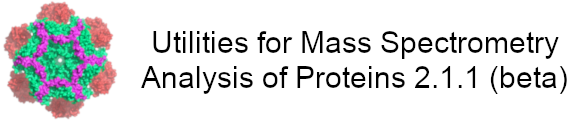
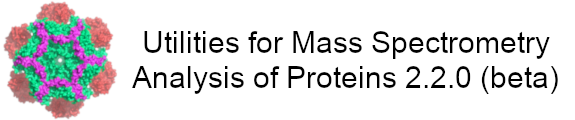
Help Menu 3

diff --git a/CODE/gui/window.py b/CODE/gui/window.py
@@ -16,8 +16,9 @@
 
 #region -------------------------------------------------------------> Imports
 import _thread
-import shutil
 import os
+import shutil
+import webbrowser
 from itertools import zip_longest
 from pathlib import Path
 from typing import Optional, Literal, Union
@@ -42,6 +43,7 @@ import wx.richtext
 import wx.adv as adv
 import wx.lib.agw.aui as aui
 import wx.lib.agw.customtreectrl as wxCT
+import wx.lib.agw.hyperlink as hl
 
 import dat4s_core.data.check as dtsCheck
 import dat4s_core.data.file as dtsFF
@@ -174,9 +176,9 @@ class BaseWindow(wx.Frame):
             'AllZoom'         : self.OnPlotZoomResetAll,
             #------------------------------> 
             'HelpAbout'      : self.OnAbout,
-            # 'HelpManual'     : ,
-            # 'HelpTutorial'   : ,
-            # 'HelpCheckUpd'   : ,
+            'HelpManual'     : self.OnManual,
+            'HelpTutorial'   : self.OnTutorial,
+            'HelpCheckUpd'   : self.OnCheckUpdate,
             # 'HelpPreferences': ,
         }
         #------------------------------> 
@@ -222,7 +224,69 @@ class BaseWindow(wx.Frame):
             -----
             
         """
-        print('About UMSAP')
+        About()
+        return True
+    #---
+    
+    def OnManual(self) -> bool:
+        """
+    
+            Parameters
+            ----------
+            
+    
+            Returns
+            -------
+            
+    
+            Raise
+            -----
+            
+        """
+        try:
+            os.system(f'{config.commOpen} {config.fManual}')
+            return True
+        except Exception as e:
+            msg = 'It was not possible to open the UMSAP manual.'
+            dtscore.Notification('errorF', msg=msg, tException=e)
+            return False
+    #---
+    
+    def OnTutorial(self) -> bool:
+        """
+    
+            Parameters
+            ----------
+            
+    
+            Returns
+            -------
+            
+    
+            Raise
+            -----
+            
+        """
+        webbrowser.open_new(config.urlTutorial)
+        return True
+    #---
+    
+    def OnCheckUpdate(self) -> bool:
+        """
+    
+            Parameters
+            ----------
+            
+    
+            Returns
+            -------
+            
+    
+            Raise
+            -----
+            
+        """
+        _thread.start_new_thread(UpdateCheck, ('menu',))
         return True
     #---
     
@@ -1627,6 +1691,103 @@ class BaseWindowProteolysis(BaseWindow):
 
 
 #region -------------------------------------------------------------> Classes
+class About(BaseWindow):
+    """
+
+        Parameters
+        ----------
+        
+
+        Attributes
+        ----------
+        
+
+        Raises
+        ------
+        
+
+        Methods
+        -------
+        
+    """
+    #region -----------------------------------------------------> Class setup
+    cName = config.nwAbout
+    #------------------------------> 
+    cSWindow = (600, 775)
+    #------------------------------> 
+    cTitle = cName
+    #endregion --------------------------------------------------> Class setup
+
+    #region --------------------------------------------------> Instance setup
+    def __init__(self):
+        """ """
+        #region -----------------------------------------------> Initial Setup
+        super().__init__()
+        #endregion --------------------------------------------> Initial Setup
+
+        #region -----------------------------------------------------> Widgets
+        self.SetBackgroundColour('white')
+        #------------------------------> 
+        self.wImg = wx.StaticBitmap(self, wx.ID_ANY, 
+            wx.Bitmap(str(config.fImgAbout), wx.BITMAP_TYPE_PNG))
+        self.wCopyRight = wx.StaticText(
+            self, label='Copyright © 2017 Kenny Bravo Rodriguez')
+        #------------------------------> 
+        self.wText = wx.TextCtrl(
+            self, 
+            size  = (100, 500),
+            style = wx.TE_MULTILINE|wx.TE_WORDWRAP|wx.TE_READONLY
+        )
+        self.wText.AppendText(myText)
+        self.wText.SetInsertionPoint(0)
+        #------------------------------> 
+        self.wLink = hl.HyperLinkCtrl(
+            self, 
+            -1, 
+            config.urlHome, 
+            URL=config.urlHome,
+        )
+        #------------------------------> 
+        self.wBtn = wx.Button(self, id=wx.ID_OK, label='OK')
+        self.wBtn.SetFocus()
+        #endregion --------------------------------------------------> Widgets
+
+        #region ------------------------------------------------------> Sizers
+        self.sBtn = wx.BoxSizer(orient=wx.HORIZONTAL)
+        self.sBtn.Add(self.wLink, 0, wx.ALIGN_CENTER_VERTICAL|wx.ALL, 5)
+        self.sBtn.AddStretchSpacer()
+        self.sBtn.Add(self.wBtn, 0, wx.ALIGN_CENTER_VERTICAL|wx.ALL, 5)
+        #------------------------------> 
+        self.sSizer.Add(self.wImg,       0, wx.ALIGN_CENTER|wx.ALL, 5)
+        self.sSizer.Add(self.wCopyRight, 0, wx.ALIGN_CENTER|wx.ALL, 5)
+        self.sSizer.Add(self.wText,      1, wx.EXPAND|wx.ALL, 5)
+        self.sSizer.Add(self.sBtn,       0, wx.EXPAND|wx.ALL, 5)
+        #endregion ---------------------------------------------------> Sizers
+
+        #region --------------------------------------------------------> Bind
+        self.Bind(wx.EVT_BUTTON, self.OnButtonClose, source=self.wBtn)
+        #endregion -----------------------------------------------------> Bind
+
+        #region ---------------------------------------------> Window position
+        self.Center()
+        self.Show()
+        #endregion ------------------------------------------> Window position
+    #---
+    #endregion -----------------------------------------------> Instance setup
+
+    #region ---------------------------------------------------> Class methods
+    def OnButtonClose(self, event) -> bool:
+        """ To close the window 
+        
+        
+        """
+        self.Close()
+        return True
+    #---
+    #endregion ------------------------------------------------> Class methods
+#---
+
+
 class MainWindow(BaseWindow):
     """Creates the main window of the App.
     
@@ -12037,12 +12198,69 @@ class FA2Btn(dtsWindow.OkCancel):
 #endregion --------------------------------------------------------> wx.Dialog
 
 
+#region ----------------------------------------------------------> ABOUT TEXT
+myText = """UMSAP: Fast post-processing of mass spectrometry data 
 
+-- Modules and Python version --
 
+UMSAP 2.1.1 (beta) is written in Python 3.7.1 and uses the following modules:
 
+Biopython 1.73  
+pyFPDF 1.7.2 
+Python 3.7.1
+Matplotlib 3.0.2 
+NumPy 1.16.1
+Pandas 0.24.2   
+PyInstaller 3.4 
+Requests 2.21.0 
+Scipy 1.2.0 
+Statsmodels 0.9.0
+wxPython 4.0.4
 
+Copyright notice and License for the modules can be found in the User's manual of UMSAP.
 
+-- Acknowledgments --
 
+I would like to thank all the persons that have contributed to the development 
+of UMSAP, either by contributing ideas and suggestions or by testing the code. 
+Special thanks go to: Dr. Farnusch Kaschani, Dr. Juliana Rey, Dr. Petra Janning 
+and Prof. Dr. Daniel Hoffmann.
 
+In particular, I would like to thank Prof. Dr. Michael Ehrmann for the support and 
+useful discussions during my postdoc stay in his group at the University of Duisburg-Essen.
 
+-- License Agreement --
+
+Utilities for Mass Spectrometry Analysis of Proteins and its source code are governed by the following license:
+
+Upon execution of this Agreement by the party identified below (”Licensee”), Kenny Bravo Rodriguez (KBR) will provide the Utilities for Mass Spectrometry Analysis of Proteins software in Executable Code and/or Source Code form (”Software”) to Licensee, subject to the following terms and conditions. For purposes of this Agreement, Executable Code is the compiled code, which is ready to run on Licensee’s computer. Source code consists of a set of files, which contain the actual program commands that are compiled to form the Executable Code.
+
+1. The Software is intellectual property owned by KBR, and all rights, title and interest, including copyright, remain with KBR. KBR grants, and Licensee hereby accepts, a restricted, non-exclusive, non-transferable license to use the Software for academic, research and internal business purposes only, e.g. not for commercial use (see Clause 7 below), without a fee.
+
+2. Licensee may, at its own expense, create and freely distribute complimentary works that inter-operate with the Software, directing others to the Utilities for Mass Spectrometry Analysis of Proteins web page to license and obtain the Software itself. Licensee may, at its own expense, modify the Software to make derivative works. Except as explicitly provided below, this License shall apply to any derivative work as it does to the original Software distributed by KBR. Any derivative work should be clearly marked and renamed to notify users that it is a modified version and not the original Software distributed by KBR. Licensee agrees to reproduce the copyright notice and other proprietary markings on any derivative work and to include in the documentation of such work the acknowledgment: ”This software includes code developed by Kenny Bravo Rodriguez for the Utilities for Mass Spectrometry Analysis of Proteins software”.
+Licensee may not sell any derivative work based on the Software under any circumstance. For commercial distribution of the Software or any derivative work based on the Software a separate license is required. Licensee may contact KBR to negotiate an appropriate license for such distribution.
+
+3. Except as expressly set forth in this Agreement, THIS SOFTWARE IS PROVIDED ”AS IS” AND KBR MAKES NO REPRESENTATIONS AND EXTENDS NO WAR- RANTIES OF ANY KIND, EITHER EXPRESS OR IMPLIED, INCLUDING BUT NOT LIMITED TO WARRANTIES OR MERCHANTABILITY OR FITNESS FOR A PARTICULAR PURPOSE, OR THAT THE USE OF THE SOFTWARE WILL NOT INFRINGE ANY PATENT, TRADEMARK, OR OTHER RIGHTS. LICENSEE AS- SUMES THE ENTIRE RISK AS TO THE RESULTS AND PERFORMANCE OF THE SOFTWARE AND/OR ASSOCIATED MATERIALS. LICENSEE AGREES THAT KBR SHALL NOT BE HELD LIABLE FOR ANY DIRECT, INDIRECT, CONSE- QUENTIAL, OR INCIDENTAL DAMAGES WITH RESPECT TO ANY CLAIM BY LICENSEE OR ANY THIRD PARTY ON ACCOUNT OF OR ARISING FROM THIS AGREEMENT OR USE OF THE SOFTWARE AND/OR ASSOCIATED MATERIALS.
+
+4. Licensee understands the Software is proprietary to KBR. Licensee agrees to take all reasonable steps to insure that the Software is protected and secured from unauthorized disclosure, use, or release and will treat it with at least the same level of care as Licensee would use to protect and secure its own proprietary computer programs and/or information, but using no less than a reasonable standard of care. Licensee agrees to provide the Software only to any other person or entity who has registered with KBR. If Licensee is not registering as an individual but as an institution or corporation each member of the institution or corporation who has access to or uses Software must agree to and abide by the terms of this license. If Licensee becomes aware of any unauthorized licensing, copying or use of the Software, Licensee shall promptly notify KBR in writing. Licensee expressly agrees to use the Software only in the manner and for the specific uses authorized in this Agreement.
+
+5. KBR shall have the right to terminate this license immediately by written notice upon Licensee’s breach of, or non-compliance with, any terms of the license. Licensee may be held legally responsible for any copyright infringement that is caused or encouraged by its failure to abide by the terms of this license. Upon termination, Licensee agrees to destroy all copies of the Software in its possession and to verify such destruction in writing.
+
+6. Licensee agrees that any reports or published results obtained with the Software will acknowledge its use by the appropriate citation as follows:
+”Utilities for Mass Spectrometry Analysis of Proteins was created by Kenny Bravo Rodriguez at the University of Duisburg-Essen and is currently developed at the Max Planck Institute of Molecular Physiology.”
+Any published work, which utilizes Utilities for Mass Spectrometry Analysis of Proteins, shall include the following reference:
+Kenny Bravo-Rodriguez, Birte Hagemeier, Lea Drescher, Marian Lorenz, Michael Meltzer, Farnusch Kaschani, Markus Kaiser and Michael Ehrmann. (2018). Utilities for Mass Spectrometry Analysis of Proteins (UMSAP): Fast post-processing of mass spectrometry data. Rapid Communications in Mass Spectrometry, 32(19), 1659–1667.
+Electronic documents will include a direct link to the official Utilities for Mass Spec- trometry Analysis of Proteins page at: www.umsap.nl
+
+7. Commercial use of the Software, or derivative works based thereon, REQUIRES A COMMERCIAL LICENSE. Should Licensee wish to make commercial use of the Software, Licensee will contact KBR to negotiate an appropriate license for such use. Commercial use includes: (1) integration of all or part of the Software into a product for sale, lease or license by or on behalf of Licensee to third parties, or (2) distribution of the Software to third parties that need it to commercialize product sold or licensed by or on behalf of Licensee.
+
+8. Utilities for Mass Spectrometry Analysis of Proteins is being distributed as a research tool and as such, KBR encourages contributions from users of the code that might, at KBR’s sole discretion, be used or incorporated to make the basic operating framework of the Software a more stable, flexible, and/or useful product. Licensees who contribute their code to become an internal portion of the Software agree that such code may be distributed by KBR under the terms of this License and may be required to sign an ”Agreement Regarding Contributory Code for Utilities for Mass Spectrometry Analysis of Proteins Software” before KBR can accept it (contact umsap@umsap.nl for a copy).
+
+UNDERSTOOD AND AGREED.
+
+Contact Information:
+
+The best contact path for licensing issues is by e-mail to umsap@umsap.nl
+"""
+#endregion -------------------------------------------------------> ABOUT TEXT
 

diff --git a/CODE/config/config.py b/CODE/config/config.py
@@ -55,6 +55,8 @@ if os == 'Darwin':
     copyShortCut = 'Cmd'
     #------------------------------> Delta space between consecutive windows
     deltaWin = 23
+    #------------------------------> 
+    commOpen = 'open'
 elif os == 'Windows':
     #------------------------------> Root & Resources Folder
     if development:
@@ -76,6 +78,8 @@ elif os == 'Windows':
     copyShortCut = 'Ctrl'
     #------------------------------> Delta space between consecutive windows
     deltaWin = 20
+    #------------------------------> 
+    commOpen = 'start'
 else:
     #------------------------------> Root & Resources Folder
     root = cwd.parent
@@ -93,6 +97,8 @@ else:
     copyShortCut = 'Ctrl'
     #------------------------------> Delta space between consecutive windows
     deltaWin = 20
+    #------------------------------> 
+    commOpen = 'xdg-open'
 #endregion ------------------------------------- Platform Dependent Parameters
 
 
@@ -123,6 +129,7 @@ nwAAPlot        = 'AAPlot'
 nwHistPlot      = 'HistPlot'
 nwCpRPlot       = 'CpRPlot'
 nwCEvolPlot     = 'CEvolPlot'
+nwAbout         = 'About UMSAP'
 #------------------------------> Dialogs
 ndCheckUpdateResDialog = 'CheckUpdateResDialog'
 ndResControlExp        = 'ResControlExp'
@@ -214,8 +221,11 @@ esUMSAP = ['.umsap']
 pImages = res / 'IMAGES' # Images folder
 #------------------------------> Location & names of important files
 fImgStart = pImages / 'MAIN-WINDOW/p97-2.png'
-fImgIcon  = pImages / 'DIALOGUE'/'dlg.png'
-# #------------------------------> Names
+fImgIcon  = pImages / 'DIALOGUE/dlg.png'
+fImgAbout = pImages / 'ABOUT/p97-2-about.png'
+#------------------------------> Manual & About
+fManual = res / 'MANUAL/manual.pdf'
+#------------------------------> Names
 fnInitial    = "{}_{}-Initial-Data.txt"
 fnFloat      = "{}_{}-Floated-Data.txt"
 fnTargetProt = "{}_{}-Target-Protein-Data.txt"
@@ -233,7 +243,7 @@ fnDataInit   = 'Input_Data_Files'
 #------------------------------> www.umsap.nl
 urlHome     = 'https://www.umsap.nl'
 urlUpdate   = f"{urlHome}/page/release-notes"
-urlTutorial = f"{urlHome}/tutorial/2-1-0"
+urlTutorial = f"{urlHome}/tutorial/2-2-0"
 #endregion --------------------------------------------------------------- URL
 
 
